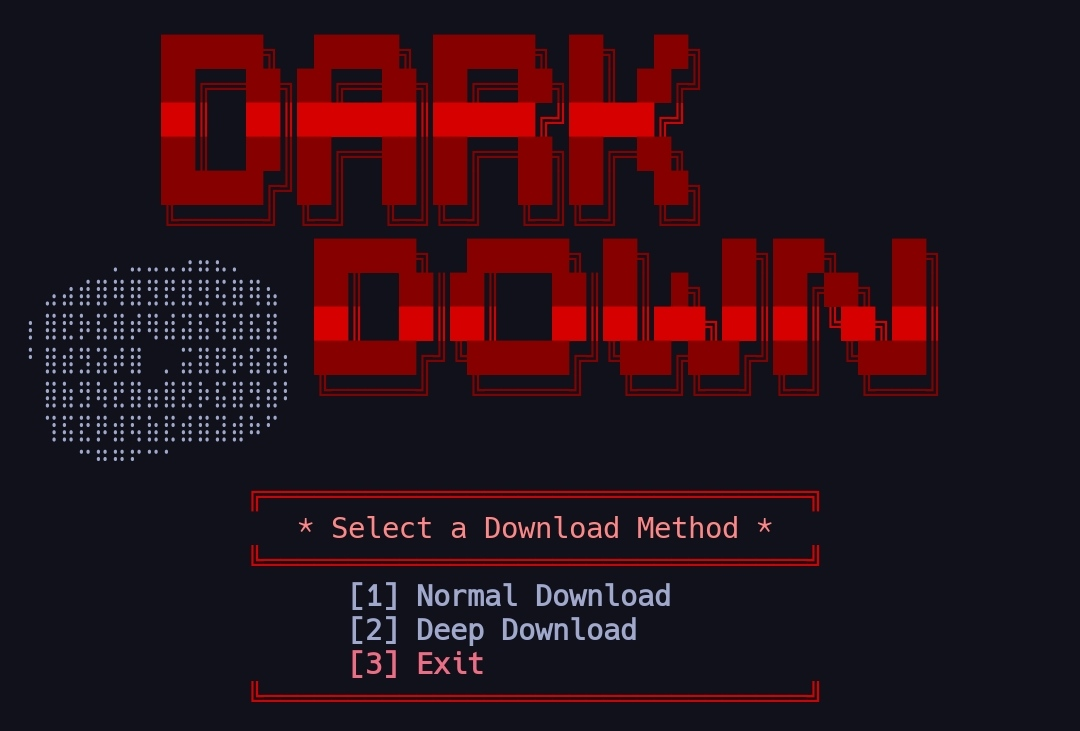
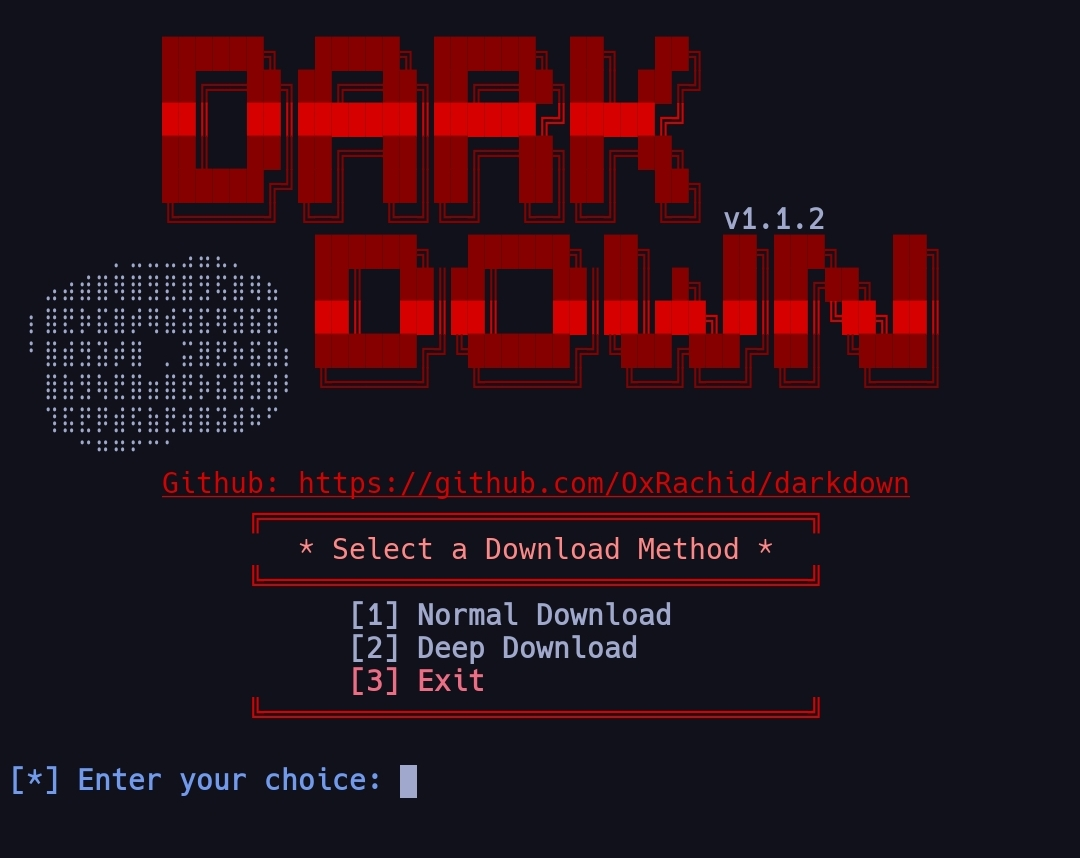
Fix: display video URL on all screens and update README.md and bump version to 1.1.2

Changed region(s): [[0.0, 0.0301, 0.8861, 0.9631]]

diff --git a/src/headerscreen.py b/src/headerscreen.py
@@ -23,7 +23,7 @@ def display_header():
     print(c.color_text("         ██║  ██║███████║██████╔╝█████╔╝", c.MEDIUM_RED))
     print(c.color_text("         ██║  ██║██╔══██║██╔══██╗██╔═██╗", c.DEEP_DARK_RED))
     print(c.color_text("         ██████╔╝██║  ██║██║  ██║██║  ██╗", c.DEEP_DARK_RED))
-    print(f"{c.color_text('         ╚═════╝ ╚═╝  ╚═╝╚═╝  ╚═╝╚═╝  ╚═╝', c.DEEP_DARK_RED)} {c.color_text('v1.1.1',c.WHITE,c.BOLD)}")
+    print(f"{c.color_text('         ╚═════╝ ╚═╝  ╚═╝╚═╝  ╚═╝╚═╝  ╚═╝', c.DEEP_DARK_RED)} {c.color_text('v1.1.2',c.WHITE,c.BOLD)}")
     print(f"{c.color_text('      ⢀⣀⣀⣀⣠⣤⣄⡀  ', c.WHITE)} {c.color_text(' ██████╗  ██████╗ ██╗    ██╗███╗   ██╗', c.DEEP_DARK_RED)}")
     print(f"{c.color_text('  ⣠⣴⣾⣿⢿⣿⣻⣟⣿⣻⢯⣿⢿⣦ ', c.WHITE)} {c.color_text('██║  ██║██║   ██║██║ █╗ ██║██╔██╗ ██║', c.DEEP_DARK_RED)}")
     print(f"{c.color_text(' ⢰⣿⣟⡷⣯⣿⡾⢿⣾⣽⣯⢿⣽⣯⣿ ', c.WHITE)} {c.color_text('██║  ██║██║   ██║██║███╗██║██║╚██╗██║', c.MEDIUM_RED)}")

diff --git a/README.md b/README.md
@@ -100,11 +100,9 @@ Darkdown uses a `config.ini` file to manage save paths.
 #### ⚙ Custom Configuration
 You can customize your storage paths by editing the config.ini file located in your project directory.
 
-```ini
 [Paths]
 video_dir = /path/to/your/custom/video/folder
 audio_dir = /path/to/your/custom/audio/folder
-```
 
 > ⚠ **Termux Users:** Run `termux-setup-storage` first to allow access to internal memory.
 
